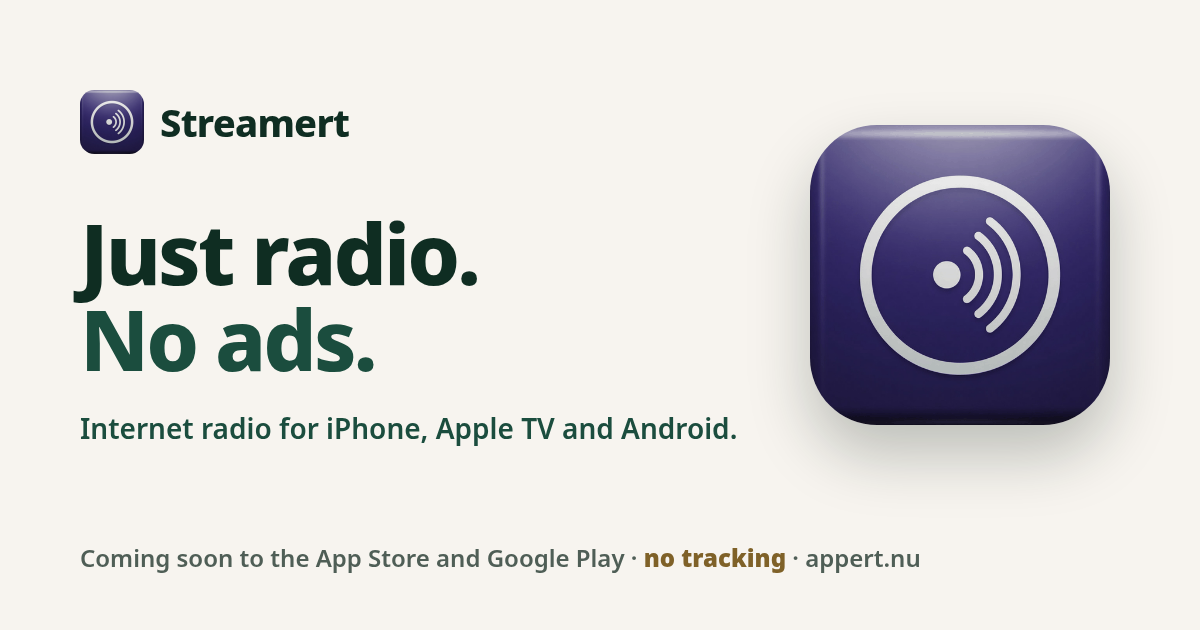
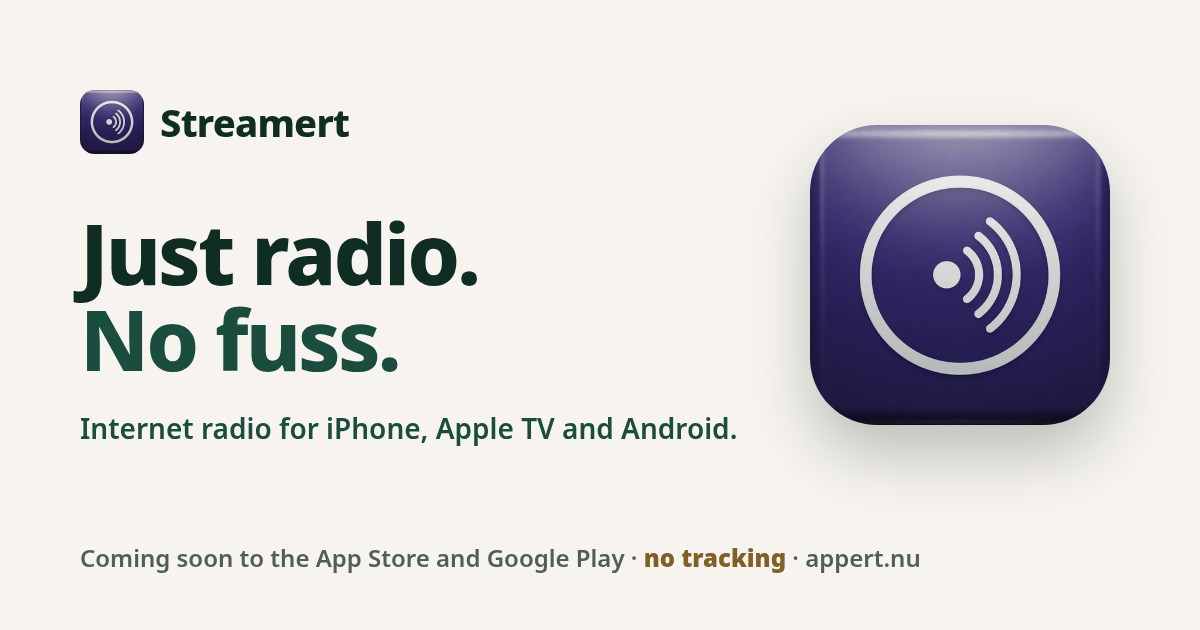
Streamert page: drop station ad-free claims, 'no fuss' headline, regenerate og images (#52)

Changed region(s): [[0.185, 0.4825, 0.3392, 0.6032]]

diff --git a/streamert/index.html b/streamert/index.html
@@ -3,7 +3,7 @@
 <head>
 <meta charset="utf-8">
 <meta name="viewport" content="width=device-width, initial-scale=1">
-<title>Streamert – internetradio zonder reclame | iPhone, Apple TV en Android</title>
+<title>Streamert – internetradio zonder gedoe | iPhone, Apple TV en Android</title>
 <meta name="description" content="Streamert is internetradio voor iPhone, Apple TV en Android: geselecteerde radiozenders direct afspelen, zonder reclame in de app en zonder account. Geen analytics, geen tracking. Binnenkort in de App Store en op Google Play.">
 <meta name="theme-color" content="#1b4d3e">
 <link rel="canonical" href="https://appert.nu/streamert/">
@@ -15,12 +15,12 @@
 <meta property="og:locale" content="nl_NL">
 <meta property="og:locale:alternate" content="en_GB">
 <meta property="og:url" content="https://appert.nu/streamert/">
-<meta property="og:title" content="Streamert – Gewoon radio. Zonder reclame.">
+<meta property="og:title" content="Streamert – Gewoon radio. Zonder gedoe.">
 <meta property="og:description" content="Internetradio voor iPhone, Apple TV en Android. Geselecteerde zenders, direct afgespeeld. Geen account, geen tracking. Binnenkort in de App Store en op Google Play.">
 <meta property="og:image" content="https://appert.nu/assets/og-image-streamert.png">
 <meta property="og:image:width" content="1200">
 <meta property="og:image:height" content="630">
-<meta property="og:image:alt" content="Streamert – Gewoon radio. Zonder reclame.">
+<meta property="og:image:alt" content="Streamert – Gewoon radio. Zonder gedoe.">
 <meta name="twitter:card" content="summary_large_image">
 <link rel="icon" href="../assets/streamert-favicon-64.png" type="image/png" sizes="64x64">
 <link rel="apple-touch-icon" href="../assets/streamert-icon-180.png">
@@ -66,7 +66,7 @@
     <div class="wrap">
       <div>
         <p class="eyebrow">Internetradio voor iPhone, Apple TV en Android</p>
-        <h1><span class="line">Gewoon radio.</span> <span class="line accent">Zonder reclame.</span></h1>
+        <h1><span class="line">Gewoon radio.</span> <span class="line accent">Zonder gedoe.</span></h1>
         <p class="subline">Geselecteerde zenders, direct afgespeeld.</p>
         <p class="lede">Streamert speelt internetradiozenders (MP3/AAC) rechtstreeks af: geen reclame in de app en geen account. Open de app en je hoort meteen je laatste zender.</p>
         <div class="cta-row">
@@ -103,7 +103,7 @@
       <div class="features">
         <div class="feature">
           <span class="feature-icon"><svg viewBox="0 0 24 24" aria-hidden="true"><path d="M5 6h14M5 12h14M5 18h9" fill="none" stroke="currentColor" stroke-width="2" stroke-linecap="round"/></svg></span>
-          <div><h3>Ruim 150 zenders</h3><p>Een samengestelde lijst reclamevrije internetradiozenders. Zoek, filter op genre en bewaar je favorieten.</p></div>
+          <div><h3>Ruim 150 zenders</h3><p>Een samengestelde lijst internetradiozenders. Zoek, filter op genre en bewaar je favorieten.</p></div>
         </div>
         <div class="feature">
           <span class="feature-icon gold"><svg viewBox="0 0 24 24" aria-hidden="true"><path d="M9 18V6l10-2v12" fill="none" stroke="currentColor" stroke-width="2" stroke-linejoin="round"/><circle cx="6.5" cy="18" r="2.5" fill="none" stroke="currentColor" stroke-width="2"/><circle cx="16.5" cy="16" r="2.5" fill="none" stroke="currentColor" stroke-width="2"/></svg></span>
@@ -123,7 +123,7 @@
         </div>
         <div class="feature">
           <span class="feature-icon gold"><svg viewBox="0 0 24 24" aria-hidden="true"><path d="M12 3l7 3v5c0 4.5-3 8-7 10-4-2-7-5.5-7-10V6z" fill="none" stroke="currentColor" stroke-width="2" stroke-linejoin="round"/></svg></span>
-          <div><h3>Geen account, geen tracking door derden</h3><p>Geen reclame, geen analytics en geen account nodig. Meer hierover in de <a href="../privacy.html#streamert">privacyverklaring</a>.</p></div>
+          <div><h3>Geen account, geen tracking door derden</h3><p>Geen reclame in de app, geen analytics en geen account nodig. Meer hierover in de <a href="../privacy.html#streamert">privacyverklaring</a>.</p></div>
         </div>
       </div>
     </div>
@@ -170,7 +170,7 @@
       <div>
         <a class="brand" href="index.html"><img class="app-icon" src="../assets/streamert-icon-180.png" alt="" width="28" height="28"><span class="brand-name">Streamert</span></a>
         <ul class="footer-pledge">
-          <li>Geen reclame</li>
+          <li>Geen reclame in de app</li>
           <li>Geen account</li>
         </ul>
         <p>Streamert gebruikt geen analytics of trackers en vraagt geen account.</p>

diff --git a/en/streamert/index.html b/en/streamert/index.html
@@ -3,7 +3,7 @@
 <head>
 <meta charset="utf-8">
 <meta name="viewport" content="width=device-width, initial-scale=1">
-<title>Streamert – internet radio without ads | iPhone, Apple TV and Android</title>
+<title>Streamert – internet radio, no fuss | iPhone, Apple TV and Android</title>
 <meta name="description" content="Streamert is internet radio for iPhone, Apple TV and Android: play curated radio stations directly, with no ads in the app and no account. No analytics, no tracking. Coming soon to the App Store and Google Play.">
 <meta name="theme-color" content="#1b4d3e">
 <link rel="canonical" href="https://appert.nu/en/streamert/">
@@ -15,12 +15,12 @@
 <meta property="og:locale" content="en_GB">
 <meta property="og:locale:alternate" content="nl_NL">
 <meta property="og:url" content="https://appert.nu/en/streamert/">
-<meta property="og:title" content="Streamert – Just radio. No ads.">
+<meta property="og:title" content="Streamert – Just radio. No fuss.">
 <meta property="og:description" content="Internet radio for iPhone, Apple TV and Android. Curated stations, played directly. No account, no tracking. Coming soon to the App Store and Google Play.">
 <meta property="og:image" content="https://appert.nu/assets/og-image-streamert-en.png">
 <meta property="og:image:width" content="1200">
 <meta property="og:image:height" content="630">
-<meta property="og:image:alt" content="Streamert – Just radio. No ads.">
+<meta property="og:image:alt" content="Streamert – Just radio. No fuss.">
 <meta name="twitter:card" content="summary_large_image">
 <link rel="icon" href="../../assets/streamert-favicon-64.png" type="image/png" sizes="64x64">
 <link rel="apple-touch-icon" href="../../assets/streamert-icon-180.png">
@@ -66,7 +66,7 @@
     <div class="wrap">
       <div>
         <p class="eyebrow">Internet radio for iPhone, Apple TV and Android</p>
-        <h1><span class="line">Just radio.</span> <span class="line accent">No ads.</span></h1>
+        <h1><span class="line">Just radio.</span> <span class="line accent">No fuss.</span></h1>
         <p class="subline">Curated stations, played directly.</p>
         <p class="lede">Streamert plays internet radio stations (MP3/AAC) directly: no ads in the app and no account. Open the app and your last station starts right away.</p>
         <div class="cta-row">
@@ -103,7 +103,7 @@
       <div class="features">
         <div class="feature">
           <span class="feature-icon"><svg viewBox="0 0 24 24" aria-hidden="true"><path d="M5 6h14M5 12h14M5 18h9" fill="none" stroke="currentColor" stroke-width="2" stroke-linecap="round"/></svg></span>
-          <div><h3>Over 150 stations</h3><p>A curated list of commercial-free internet radio stations. Search, filter by genre and keep your favourites.</p></div>
+          <div><h3>Over 150 stations</h3><p>A curated list of internet radio stations. Search, filter by genre and keep your favourites.</p></div>
         </div>
         <div class="feature">
           <span class="feature-icon gold"><svg viewBox="0 0 24 24" aria-hidden="true"><path d="M9 18V6l10-2v12" fill="none" stroke="currentColor" stroke-width="2" stroke-linejoin="round"/><circle cx="6.5" cy="18" r="2.5" fill="none" stroke="currentColor" stroke-width="2"/><circle cx="16.5" cy="16" r="2.5" fill="none" stroke="currentColor" stroke-width="2"/></svg></span>
@@ -123,7 +123,7 @@
         </div>
         <div class="feature">
           <span class="feature-icon gold"><svg viewBox="0 0 24 24" aria-hidden="true"><path d="M12 3l7 3v5c0 4.5-3 8-7 10-4-2-7-5.5-7-10V6z" fill="none" stroke="currentColor" stroke-width="2" stroke-linejoin="round"/></svg></span>
-          <div><h3>No account, no third-party tracking</h3><p>No ads, no analytics and no account needed. More in the <a href="../privacy.html#streamert">privacy policy</a>.</p></div>
+          <div><h3>No account, no third-party tracking</h3><p>No ads in the app, no analytics and no account needed. More in the <a href="../privacy.html#streamert">privacy policy</a>.</p></div>
         </div>
       </div>
     </div>
@@ -170,7 +170,7 @@
       <div>
         <a class="brand" href="index.html"><img class="app-icon" src="../../assets/streamert-icon-180.png" alt="" width="28" height="28"><span class="brand-name">Streamert</span></a>
         <ul class="footer-pledge">
-          <li>No ads</li>
+          <li>No ads in the app</li>
           <li>No account</li>
         </ul>
         <p>Streamert uses no analytics or trackers and asks for no account.</p>
